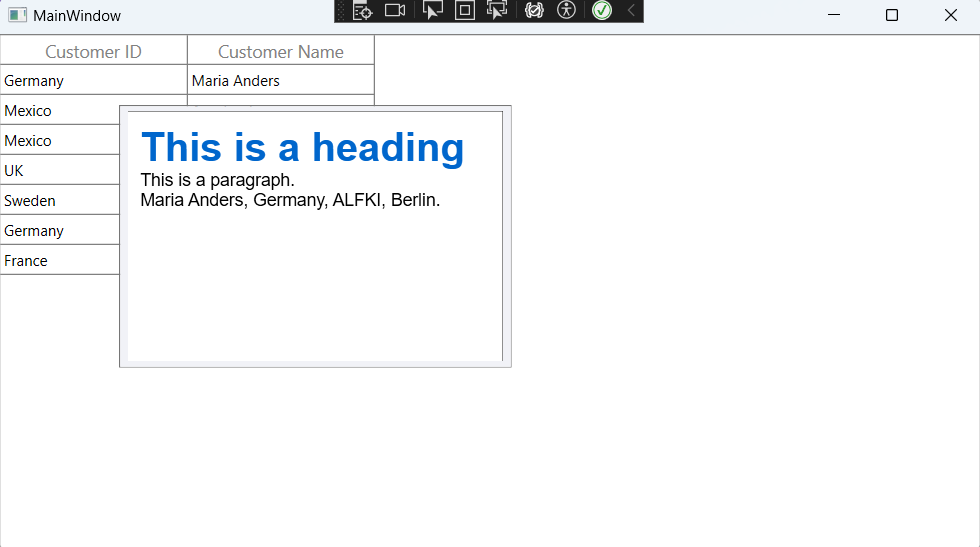
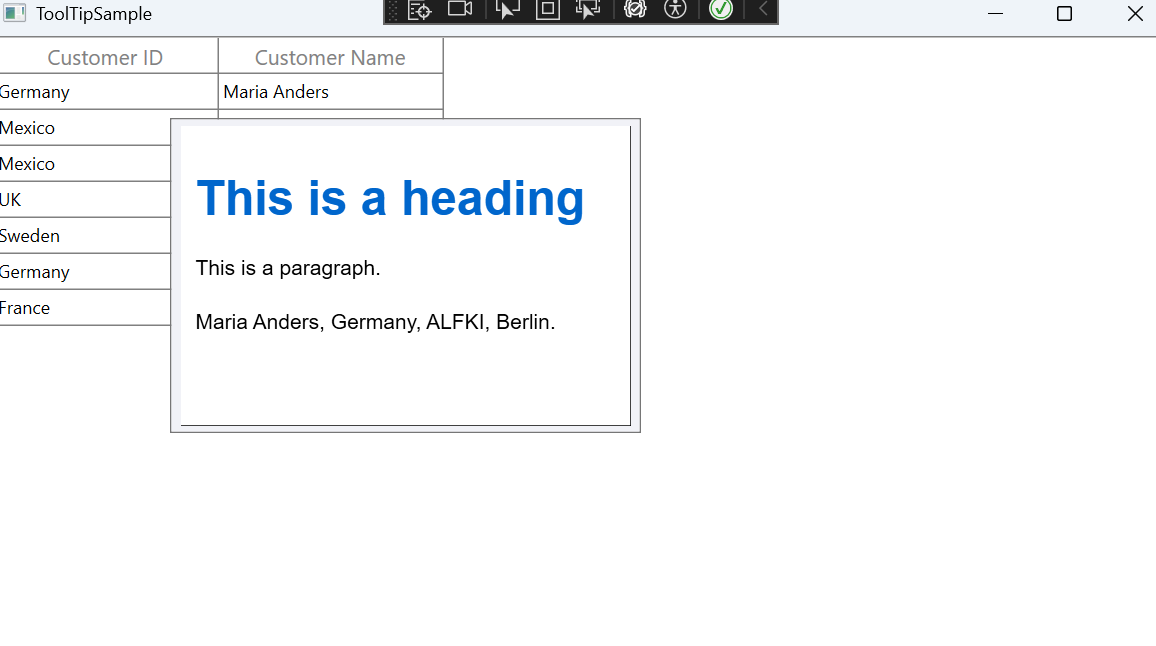
Addressed the concerns.

Changed region(s): [[0.0, 0.0, 1.0, 0.5283], [0.1224, 0.6527, 0.551, 0.6837]]

diff --git a/SfDataGrid_ToolTip/MainWindow.xaml b/SfDataGrid_ToolTip/MainWindow.xaml
@@ -6,12 +6,12 @@
         xmlns:local="clr-namespace:WPFDataGrid"
         xmlns:syncfusion="http://schemas.syncfusion.com/wpf"
         mc:Ignorable="d"
-        Title="MainWindow" Height="450" Width="800">
+        Title="ToolTipSample" Height="450" Width="800">
     <Window.DataContext>
         <local:OrderInfoCollection/>
     </Window.DataContext>
     <Grid>
-        <syncfusion:SfDataGrid x:Name="dataGrid" ItemsSource="{Binding Orders}" AutoGenerateColumns="False" CellToolTipOpening="dataGrid_CellToolTipOpening">
+        <syncfusion:SfDataGrid x:Name="dataGrid" ItemsSource="{Binding Orders}" AutoGenerateColumns="False" CellToolTipOpening="OnCellToolTipOpening">
             <syncfusion:SfDataGrid.Columns>
                 <syncfusion:GridTextColumn MappingName="CustomerID" 
                                            HeaderText="Customer ID" 

diff --git a/SfDataGrid_ToolTip/MainWindow.xaml.cs b/SfDataGrid_ToolTip/MainWindow.xaml.cs
@@ -13,6 +13,7 @@ using System.Windows.Media;
 using System.Windows.Media.Imaging;
 using System.Windows.Navigation;
 using System.Windows.Shapes;
+using Syncfusion.UI.Xaml.Grid;
 using Syncfusion.Windows.Controls.RichTextBoxAdv;
 
 namespace WPFDataGrid
@@ -28,15 +29,19 @@ namespace WPFDataGrid
         }
 
         SfRichTextBoxAdv richTextBoxAdv = new SfRichTextBoxAdv() { Width = 300, Height = 200, LayoutType = LayoutType.Continuous };
-        private void dataGrid_CellToolTipOpening(object sender, Syncfusion.UI.Xaml.Grid.GridCellToolTipOpeningEventArgs e)
+        private void OnCellToolTipOpening(object sender, GridCellToolTipOpeningEventArgs e)
         {
-            string htmlContent = (e.Record as OrderInfo).HTMLCode;
-            Stream stream = new MemoryStream();
-            byte[] bytes = Encoding.UTF8.GetBytes(htmlContent);
-            stream.Write(bytes, 0, bytes.Length);
-            stream.Position = 0;
-            richTextBoxAdv.Load(stream, FormatType.Html);
-            e.ToolTip.Content = richTextBoxAdv;
+            if (e.Record != null && e.Record is OrderInfo)
+            {
+                string htmlContent = (e.Record as OrderInfo).HTMLCode;
+                Stream stream = new MemoryStream();
+                byte[] bytes = Encoding.UTF8.GetBytes(htmlContent);
+                if (bytes != null)
+                    stream.Write(bytes, 0, bytes.Length);
+                stream.Position = 0;
+                richTextBoxAdv.Load(stream, FormatType.Html);
+                e.ToolTip.Content = richTextBoxAdv;
+            }
         }
     }
 }

diff --git a/README.md b/README.md
@@ -13,32 +13,36 @@ Subscribe to the CellToolTipOpening event of SfDataGrid, and enable the [ShowToo
                        x:Name="dataGrid"  
                        ItemsSource="{Binding Orders}" 
                        AutoGenerateColumns="False" 
-                       CellToolTipOpening="dataGrid_CellToolTipOpening"  >
+                       CellToolTipOpening="OnCellToolTipOpening">
     <syncfusion:SfDataGrid.Columns>
           <syncfusion:GridTextColumn HeaderText="Customer ID" 
                                      MappingName="CustomerID" 
-                                     ShowToolTip="True"  />
+                                     ShowToolTip="True"/>
         <syncfusion:GridTextColumn HeaderText="Customer Name" 
                                    MappingName="CustomerName"/>
     </syncfusion:SfDataGrid.Columns>
 </syncfusion:SfDataGrid> 
  ```
-**Step 2: Handle the Event**
+**Step 2: Customize the ToolTip content to display as HTML content**
            
    In the event handler, retrieve the HTML code, convert it into a stream, and pass it to RichTextBoxAdv. Then, set RichTextBoxAdv as the tooltip content of the SfDataGrid.
 
  ```csharp
     SfRichTextBoxAdv richTextBoxAdv = new SfRichTextBoxAdv() { Width = 300, Height = 200, LayoutType = LayoutType.Continuous};
 
-    private void dataGrid_CellToolTipOpening(object sender, Syncfusion.UI.Xaml.Grid.GridCellToolTipOpeningEventArgs e)
+    private void OnCellToolTipOpening(object sender, GridCellToolTipOpeningEventArgs e)
     {
-        string htmlContent = (e.Record as OrderInfo).HTMLCode;
-        Stream stream = new MemoryStream();
-        byte[] bytes = Encoding.UTF8.GetBytes(htmlContent);
-        stream.Write(bytes, 0, bytes.Length);
-        stream.Position = 0;
-        richTextBoxAdv.Load(stream, FormatType.Html);
-        e.ToolTip.Content = richTextBoxAdv;
+        if (e.Record != null && e.Record is OrderInfo)
+        {
+           string htmlContent = (e.Record as OrderInfo).HTMLCode;
+           Stream stream = new MemoryStream();
+           byte[] bytes = Encoding.UTF8.GetBytes(htmlContent);
+           if (bytes != null)
+             stream.Write(bytes, 0, bytes.Length);
+           stream.Position = 0;
+           richTextBoxAdv.Load(stream, FormatType.Html);
+           e.ToolTip.Content = richTextBoxAdv;
+        }
     }
  ```
 
